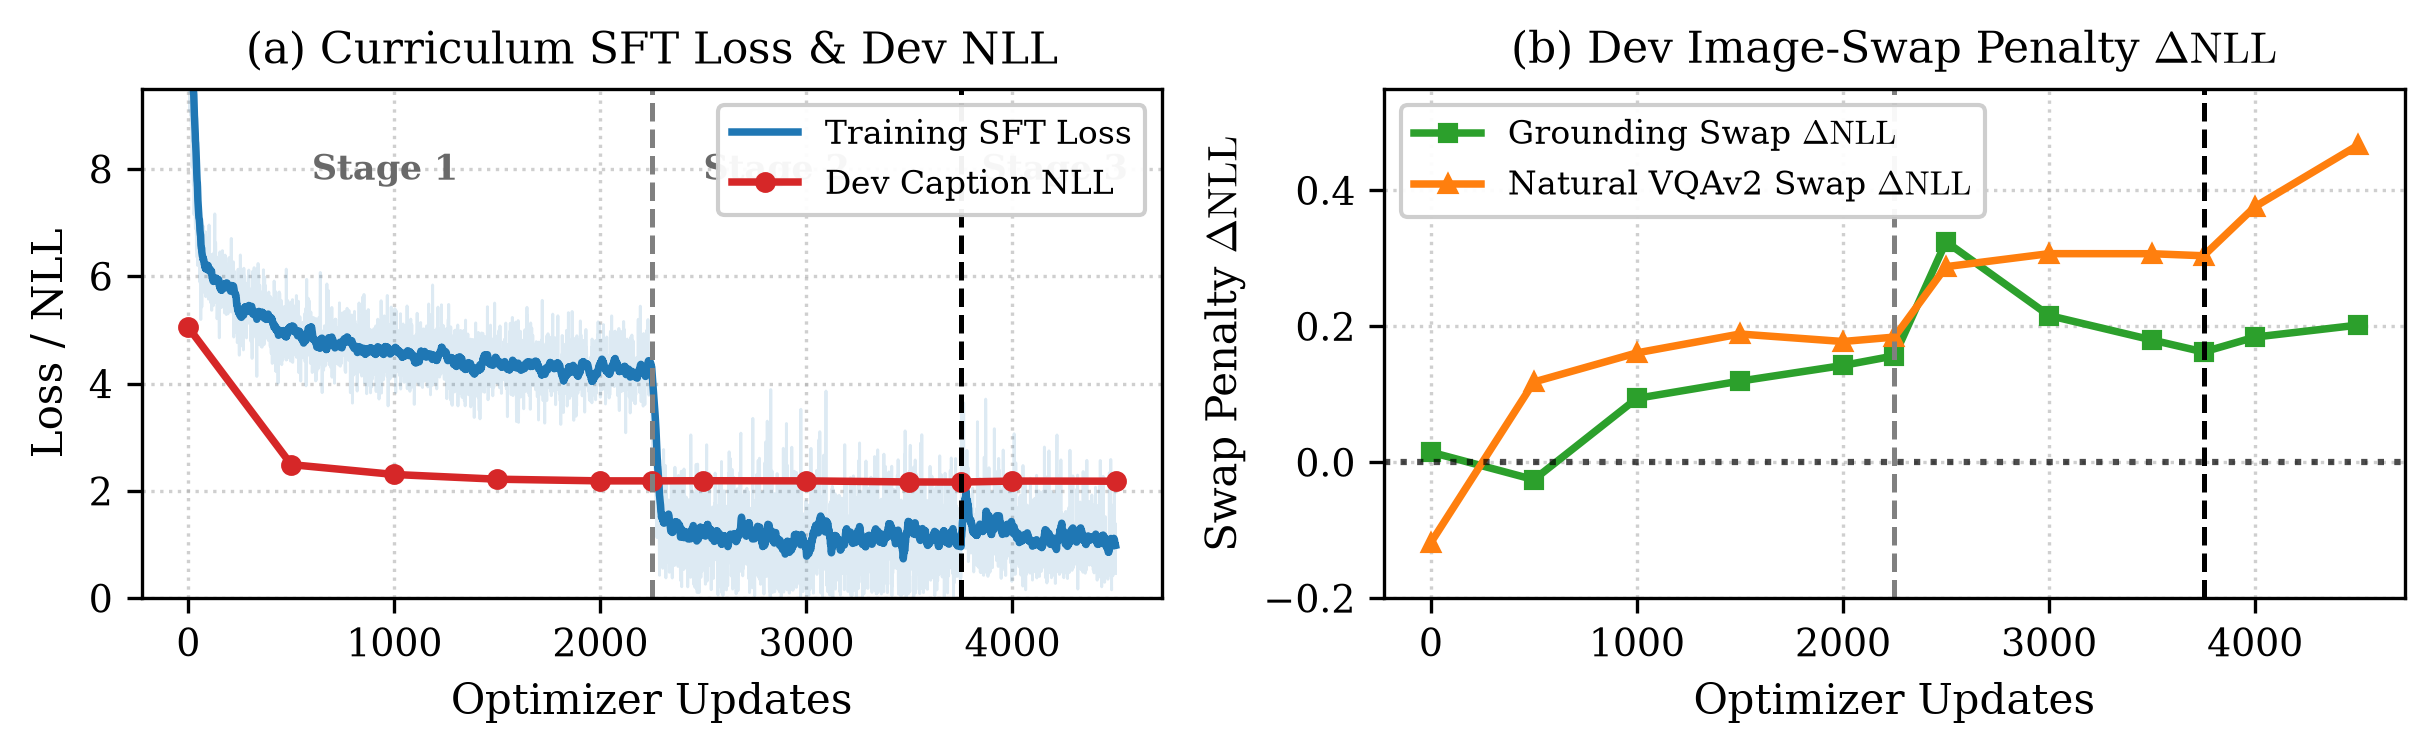
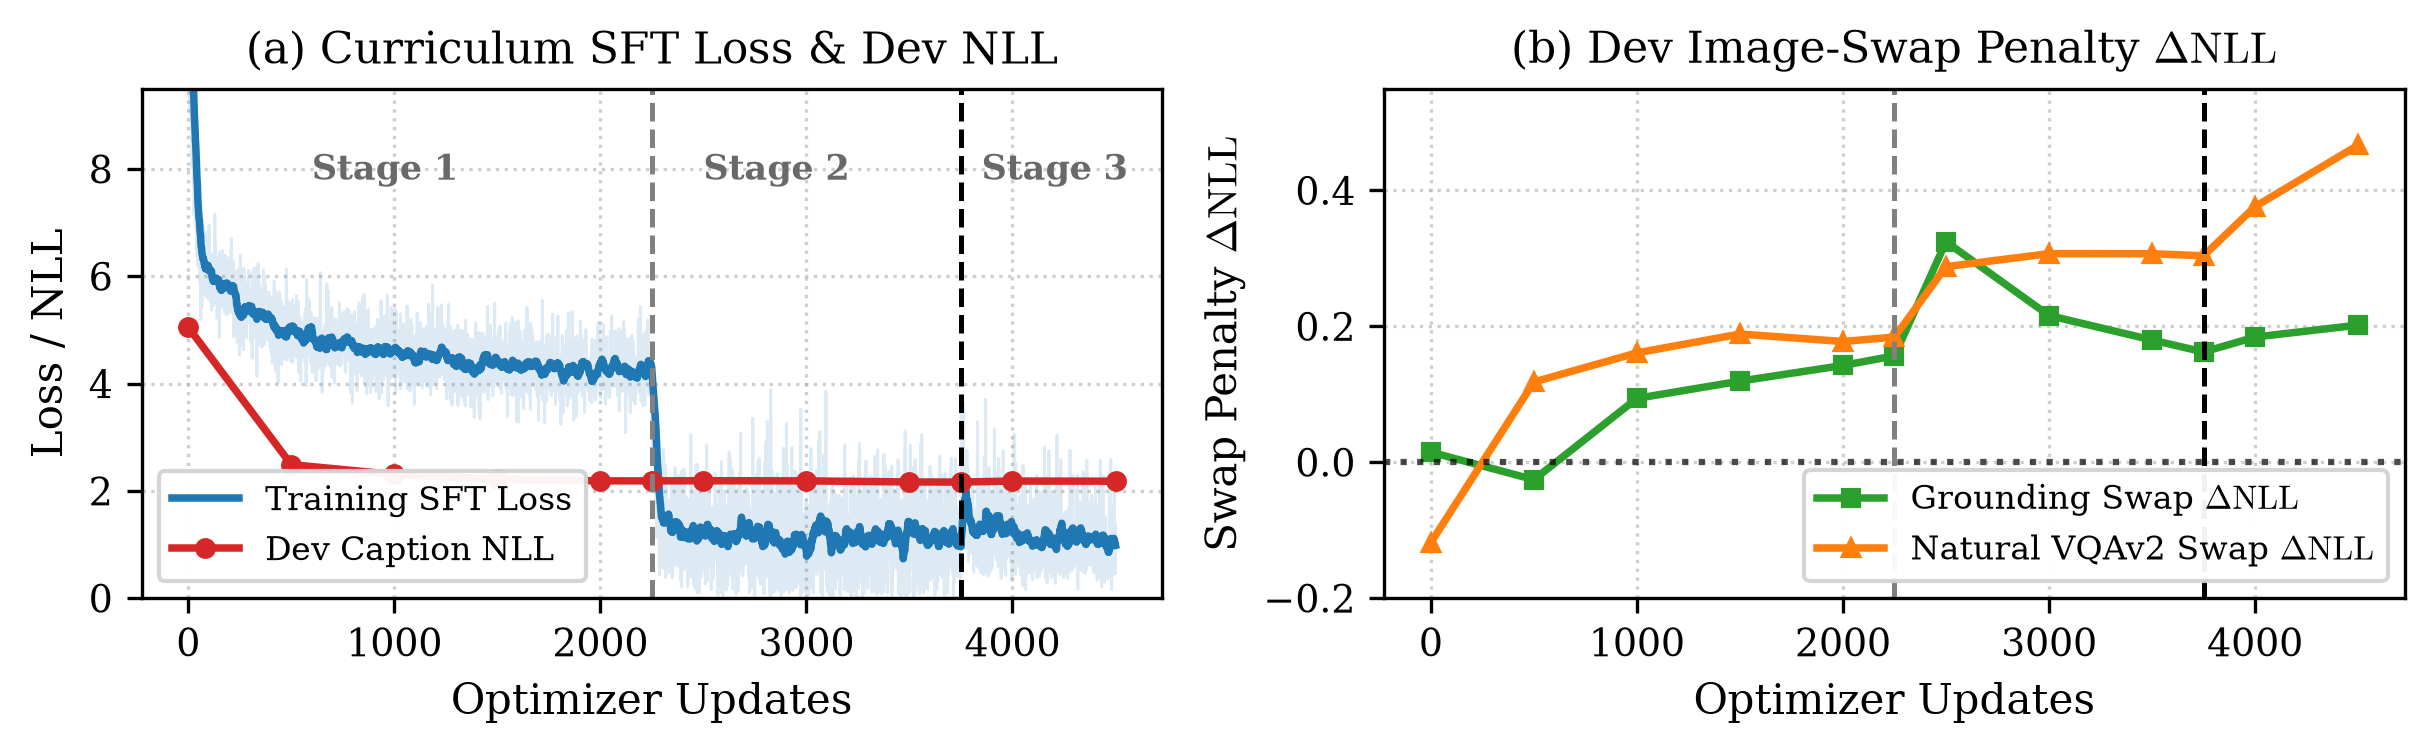
Reposition Figure 3 legends: (a) to bottom left, (b) to bottom right

diff --git a/report/generate_figures.py b/report/generate_figures.py
@@ -180,7 +180,7 @@ def plot_figure_3():
     ax1.set_ylabel("Loss / NLL")
     ax1.set_title("(a) Curriculum SFT Loss & Dev NLL")
     ax1.grid(True, linestyle=":", alpha=0.6)
-    ax1.legend(loc="upper right", framealpha=0.95, fontsize=8.0)
+    ax1.legend(loc="lower left", framealpha=0.95, fontsize=8.0, facecolor="white", edgecolor="lightgray")
     ax1.set_ylim(0.0, 9.5)
     
     # Subplot 2: Development Image-Swap Penalty Delta NLL
@@ -195,7 +195,7 @@ def plot_figure_3():
     ax2.set_ylabel(r"Swap Penalty $\Delta\mathrm{NLL}$")
     ax2.set_title(r"(b) Dev Image-Swap Penalty $\Delta\mathrm{NLL}$")
     ax2.grid(True, linestyle=":", alpha=0.6)
-    ax2.legend(loc="upper left", framealpha=0.95, fontsize=8.0)
+    ax2.legend(loc="lower right", framealpha=0.95, fontsize=8.0, facecolor="white", edgecolor="lightgray")
     ax2.set_ylim(-0.2, 0.55)
     
     fig.savefig(OUTPUT_DIR / "fig3_task2_curriculum_curves.pdf", bbox_inches="tight")
@@ -239,7 +239,7 @@ def plot_figure_4():
     ax1.set_ylabel("Evaluation Accuracy (%)")
     ax1.set_title("(a) Accuracy Under Visual Controls")
     ax1.grid(True, linestyle=":", alpha=0.6, axis="y")
-    ax1.legend(loc="upper right", framealpha=0.95, fontsize=8.0)
+    ax1.legend(loc="lower left", framealpha=0.95, fontsize=8.0, facecolor="white", edgecolor="lightgray")
     ax1.set_ylim(0, 80)
     
     # Subplot 2: Reference Canonical NLL with 95% Bootstrap CIs
@@ -259,7 +259,7 @@ def plot_figure_4():
     ax2.set_ylabel("Target Reference NLL")
     ax2.set_title("(b) Target NLL Across Visual Controls")
     ax2.grid(True, linestyle=":", alpha=0.6, axis="y")
-    ax2.legend(loc="upper left", framealpha=0.95, fontsize=8.0)
+    ax2.legend(loc="lower right", framealpha=0.95, fontsize=8.0, facecolor="white", edgecolor="lightgray")
     ax2.set_ylim(0, 5.5)
     
     fig.savefig(OUTPUT_DIR / "fig4_task2_grounding_eval.pdf", bbox_inches="tight")
